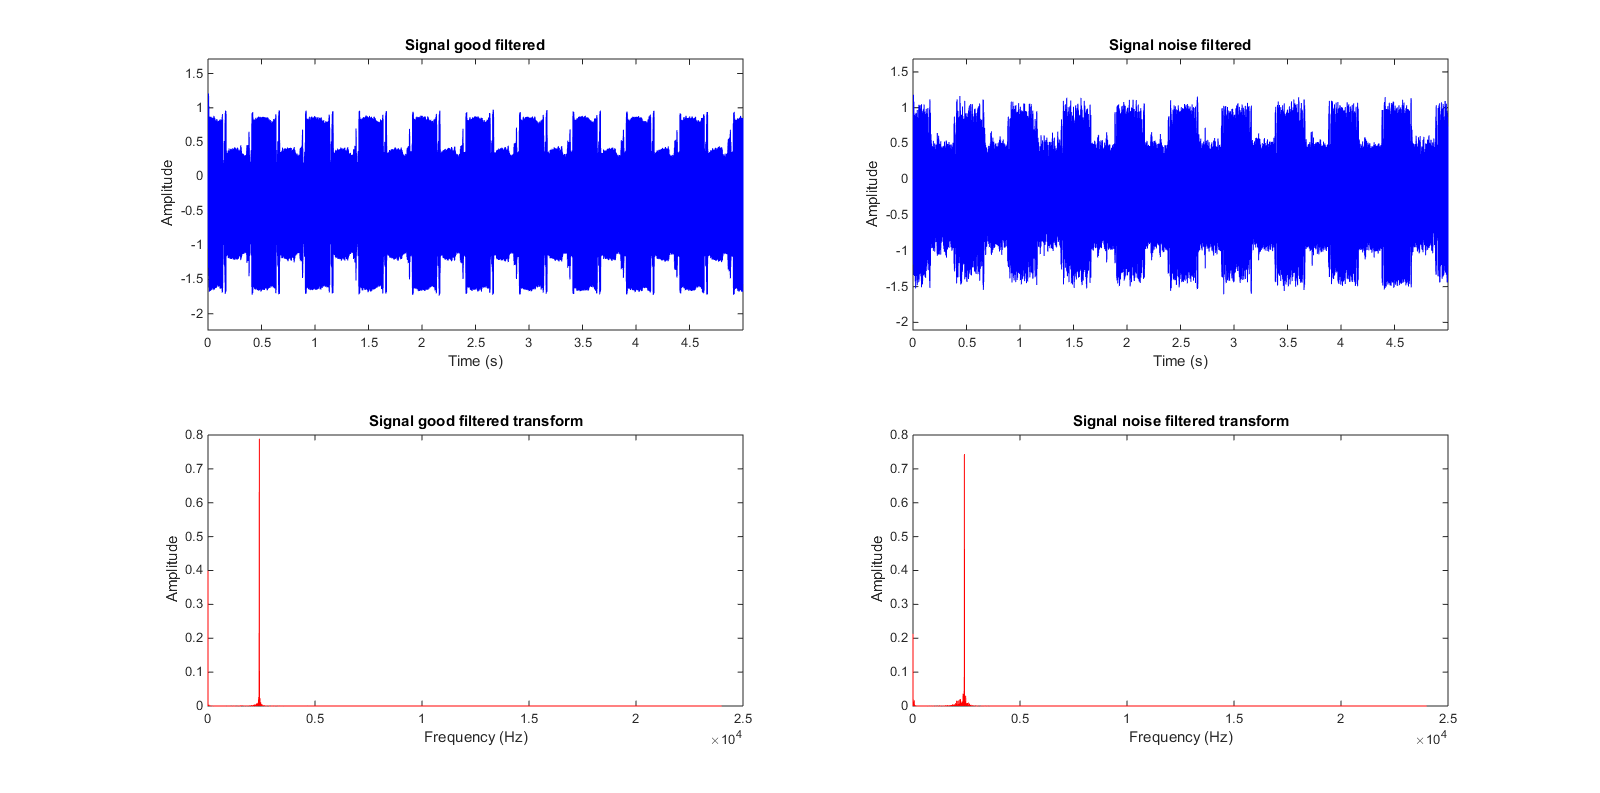
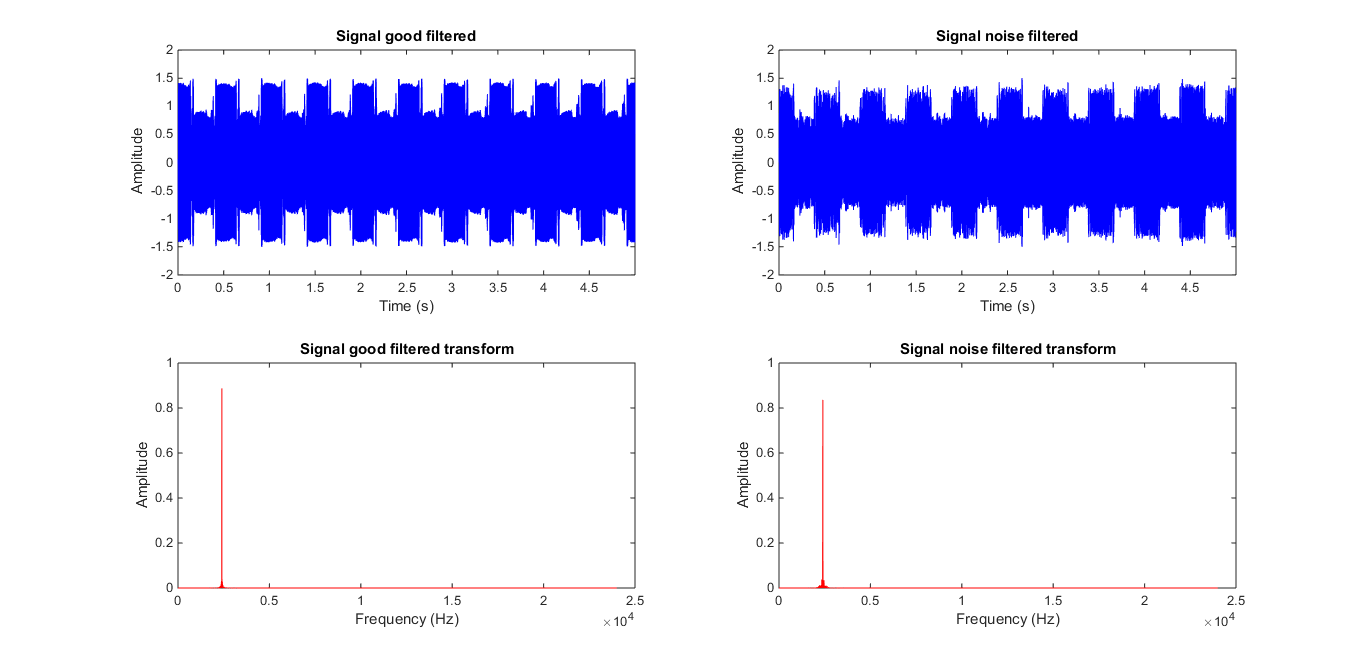
Upgrade main.c and SignalProcess.m
- Upgrade main.m and SignalProcess.m matlab scripts
   - Update README explanation.
   - Update signal_filtered.png and signal_raw.png images

By: AndresCasasola (andres97dominguez@gmail.com)

diff --git a/scripts/main.m b/scripts/main.m
@@ -1,35 +1,35 @@
-filename = 'capture4.wav';
+filename = 'signal.wav';
 [s,fs] = audioread(filename);
-t = [0:1/fs:5-1/fs]; % fs = 48000, se resta 5-1/fs para que sean 240000 valores de tiempo (5s)
+t = [0:1/fs:5-1/fs];        % 5-1/fs to get 240000 time values (5s)
 
 % DEFINITION OF PARAMETERS
-% Filtering and gain
-G = 1;  % Gain
+G = 1;                  % Gain
+f_lowcut = 2500;        % Lowpass filter cutoff frequency
+f_highcut = 2300;       % Highpass filter cutoff frequency
+datarate_out = 48000;   % Output audio datarate
 
 % FILTERING AND AMPLIFYING
-% Low pass filter parameters
-f_lowcut = 3000;                % 3000 Hz for lowpass filter cut frequency
-fn_lowcut = f_lowcut/(fs/2);    % Normalize with sampling frequency
-% Band pass filter parameters
-f_bandcut = [200 2000];        % 3000 Hz for lowpass filter cut frequency
-fn_bandcut = f_bandcut/(fs/2);    % Normalize with sampling frequency
+% Filters normalized frequency calculation
+fn_lowcut = f_lowcut/(fs/2);      
+fn_highcut = f_highcut/(fs/2);
 
 % Lowpass filter
 [zhi,phi,khi] = butter(20,fn_lowcut,'low'); %% zhi: zeros, phi: poles, k: gain
 soshi = zp2sos(zhi,phi,khi);
 s_filtered = sosfilt(soshi,s);
 
-% Anti Bandpass filter
-[B,A] = butter(5,fn_bandcut, 'stop');
-s_filtered = filter(B, A, s_filtered);
+% Highpass filter
+[zhi,phi,khi] = butter(20,fn_highcut,'high'); %% zhi: zeros, phi: poles, k: gain
+soshi = zp2sos(zhi,phi,khi);
+s_filtered = sosfilt(soshi,s_filtered);
 
 % Amplification
 s_filtered = G.*s_filtered;
 
-% Transform sampling data rate from 48.000Hz to 11.200Hz
-[P,Q] = rat(11025/fs, 0.0001);
+% Transform sampling datarate from 48.000Hz to 11.200Hz
+[P,Q] = rat(datarate_out/fs, 0.0001);
 s_filtered = resample(s_filtered, P, Q);
 
 
 % WRITE AUDIO
-audiowrite('capture4_filtered.wav', s_filtered, 11025);
+audiowrite('signal_filtered.wav', s_filtered, datarate_out);

diff --git a/README.md b/README.md
@@ -1,47 +1,71 @@
+
 # Signal Processing with Matlab
 
 <p align="center">
   <img width="400" height="150" src="https://github.com/AndresCasasola/Matlab-SignalProcessing/raw/master/resources/images/matlab.png">
 </p>
 
+## Introduction
+- In this repository will be explained how to import audio files in matlab, filter, amplify, represent them and finally generate output audio files processed.
 
-### Introduction
-In this repository will be explained how to import audio files in matlab, filter, process, represent them and finally generate output audio files processed.
-For this example will be used an audio signal got from NOAA-18 satellite.
+For this example an audio signal obtained from the NOAA-18 satellite will be used.
 The characteristics of the audio signal are the following:
-- Input data rate: 48000 Hz or samples/s.
-- Output data rate: 11025 Hz or samples/s.
+- Audio data rate: 48000 Hz or samples/s.
 - Relevant data frequency: 2.4 kHz.
 
-### Starting with matlab
-There are two scripts in matlab, *SignalProcess.m* and *main.m*.
-#### SignalProcess
+The output audio data rate that matlab will return is by default programmed to 48000 Hz or samples/s.
+
+## Starting with matlab
+There are two scripts in matlab code, *SignalProcess.m* and *Main.m*.
+
+<br>
+<center><strong><font size="+2">Explaining SignalProcess.m</font></strong></center>
 
 ##### Description:
-This script loads the audio into matlab as a vector variable with the samples, then takes two segments of the original audio file with a duration of 5 seconds and represents them in time and frequency. Its important to say that one of the segments are very noisy and the other one is very clearly. The objetive is to delete the noise of the noisy signal.
+- This script loads the audio into matlab as a vector variable with the samples, then takes two segments of the original audio file with a duration of 5 seconds and represents them in time and frequency. Its important to say that one of the segments are very noisy and the other one is very clearly. The objetive is to delete the noise of the noisy signal.
 
 ##### Code explain:
-Watching at the code, it is presented diferents blocks. The first part loads the audio signal, define time and frequency domain and takes both segments from the original audio. Next block plots the raw clear and noisy signals. The following block implements four different Butterworth filters (Lowpass, Highpass, Bandpass, Anti-Bandpass), for this example only will be used lowpass and bandpass filters. After the filtering there is an amplification. The next block is the representation of the filtered and amplified signals and finally the last block write the audio samples to output files.
+Looking at the code, diferents blocks are presented.
+1) The first part loads the audio signal, define time and frequency domain and takes a noisy segment and a clearly segment from the original audio. 
+2) Next block represents both signals in raw format, with no modifications. 
+3) The following block implements four different Butterworth filters (Lowpass, Highpass, Bandpass, Bandstop), for this example will be used lowpass and highpass filters. After the filtering there is an amplification. 
+4) Next block is the representation of the filtered and amplified signals.
+5) Finally the last block write the audio samples to output files.
 
-##### Running in matlab:
+##### Running on matlab:
 The audio file and the matlab script must be in the same directory, otherwise the audio file must be imported in matlab environment.
 
-Now run on matlab and let´s study the results.
-The first figure (1) represents the raw data.
+Now run matlab and let's study the results.
+The first figure (Figure 1, on matlab) represents the raw data.
 
 ![Figure 1](https://github.com/AndresCasasola/Matlab-SignalProcessing/raw/master/resources/images/signal_raw.png "Figure 1")
 
-The *signal good* is the clearly signal and if observe fourier transform, the continous and 2.4kHz are really bigger than other frequencies.
-The *signal noise* is the noisy signal and if observe the transform, the continous and 2.4kHz are bigger than other frequencies but the power distributed on the other frequencies are bigger too.
+- *Signal good* is the clearly signal, looking at frequency domain the continuous and 2.4kHz frequencies are really bigger than other frequencies.
+- *Signal noise* is the noisy signal and in the frequency domain the continuous and 2.4kHz frequencies are bigger than others, but the power distributed on those other frequencies are bigger than in the *signal good*.
 
-The filters will delete this frequencies that do not contain relevant data.
+The filters will delete those frequencies that do not contain relevant data.
 
-Now the second figure (2) represents the filtered signals.
+Now the second figure (Figure 2, on matlab) represents the filtered signals.
 
 ![Figure 2](https://github.com/AndresCasasola/Matlab-SignalProcessing/raw/master/resources/images/signal_filtered.png "Figure 2")
 
-The *signal good filtered* is still very clear, and in the frequency domain can be observed that all frequencies different than 2.4kHz are eliminated. That is correct.
+- *Signal good filtered* is still very clear, and in the frequency domain can be observed that all frequencies different than 2.4kHz are eliminated. That is correct.
 
-The *signal noise filtered* is very much better in time domain than before and in the frequency domain can be observed that all frequencies different than 2.4kHz are eliminated. The result is very good.
+- *Signal noise filtered* is very much better in time domain than before and in the frequency domain can be observed that all frequencies different than 2.4kHz are eliminated. The result is very good.
 
 Finally you can hear the raw samples and the processed samples and test it by yourself.
+
+
+<center><strong><font size="+2">Explaining Main.m</font></strong></center>
+
+##### Description:
+
+*Main.m* is a modification of *SignalProcess.m*, it takes an audio file as input and process it according to the user's input parameters. Then it returns the full audio output file processed.
+
+The parameters that the user can change are the following:
+- Lowpass cutoff frequency for lowpass filter.
+- Highpass cutoff frequency for highpass filter.
+- Bandpass cutoff frequencies (lower and higher) for bandpass filter.
+- Bandstop cutoff frequencies (lower and higher) for bandstop filter.
+- Output gain.
+- Output audio data rate.
